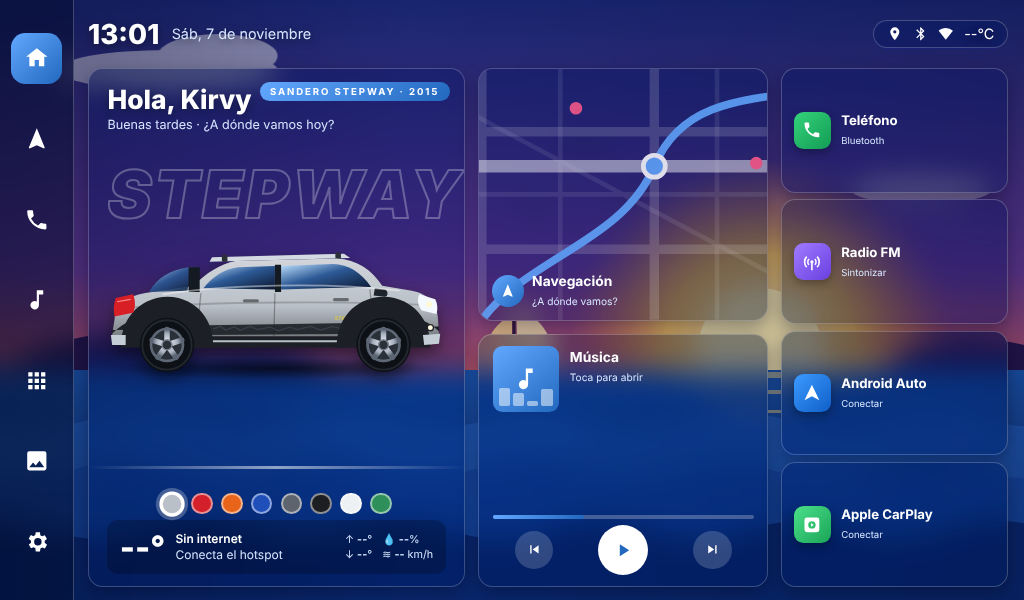
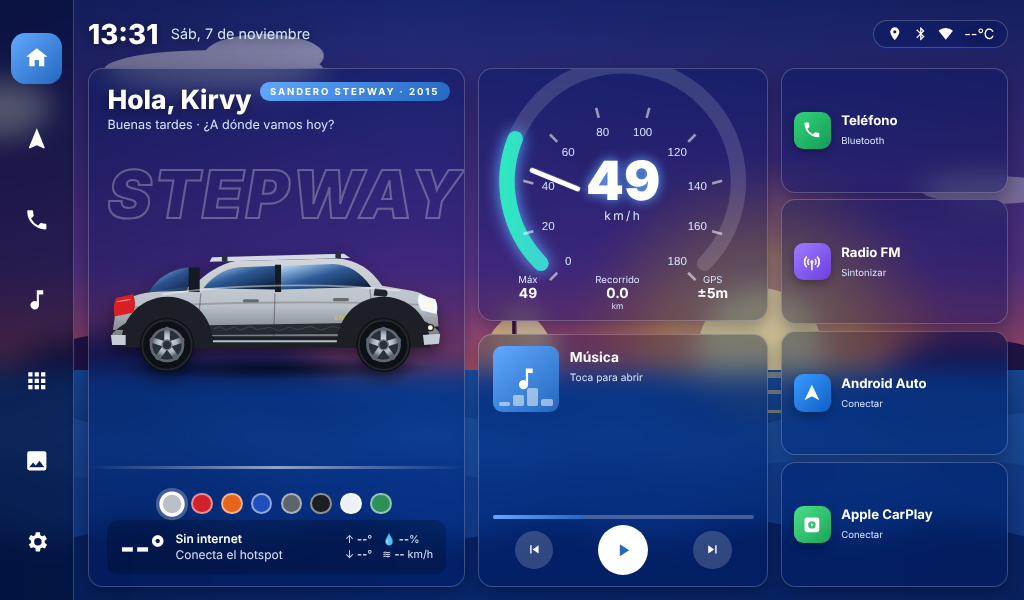
Velocímetro por GPS en lugar del mapa
Claude-Session: https://claude.ai/code/session_01N2MKAumXy8AifZPdSfDDV2

diff --git a/app/src/main/assets/launcher/index.html b/app/src/main/assets/launcher/index.html
@@ -103,6 +103,25 @@ html,body{width:100%;height:100%;overflow:hidden;background:#000;font-family:Rob
 .ctr svg{width:2.8vh;fill:#fff}
 .ctr .p svg{fill:var(--c3);width:3.4vh}
 
+
+/* ===== Velocímetro ===== */
+.speedo{display:flex;flex-direction:column;align-items:center;padding:1vh 1vw 1.4vh}
+.gauge{width:100%;height:0;flex:1 1 0;min-height:0;overflow:visible;margin-top:1vh}
+.gauge .track{fill:none;stroke:rgba(255,255,255,.14);stroke-width:12;stroke-linecap:round}
+.gauge .arc{fill:none;stroke-width:12;stroke-linecap:round;stroke-dasharray:0 100;transition:stroke-dasharray .5s ease-out;filter:drop-shadow(0 0 6px var(--c1))}
+.gauge text{fill:#d6e6ff;font-size:9px;font-family:Roboto,Arial,sans-serif;text-anchor:middle;dominant-baseline:middle}
+.gauge .tick{stroke:rgba(255,255,255,.55);stroke-width:2}
+.needle{transform-origin:100px 100px;transition:transform .5s ease-out}
+.sp-read{position:absolute;top:34%;left:0;right:0;text-align:center;pointer-events:none}
+.sp-num{font-size:9vh;font-weight:900;line-height:1;text-shadow:0 0 2vh var(--c1)}
+.sp-unit{font-size:2vh;color:var(--sub);letter-spacing:.2em}
+.sp-foot{display:flex;justify-content:space-around;width:100%;font-size:1.6vh;color:var(--sub)}
+.sp-foot div{display:flex;flex-direction:column;align-items:center}
+.sp-foot i{font-style:normal}
+.sp-foot b{font-size:2.3vh;color:#fff}
+.sp-foot small{font-size:1.4vh}
+.speedo.fast .sp-num{color:#ff6b6b;text-shadow:0 0 2vh #ff3b3b}
+
 /* ===== Derecha ===== */
 .quick{display:grid;grid-template-rows:repeat(4,1fr);gap:1.1vh;min-height:0}
 .q{display:flex;align-items:center;gap:1vw;padding:0 1.1vw}
@@ -289,16 +308,24 @@ html,body{width:100%;height:100%;overflow:hidden;background:#000;font-family:Rob
       </article>
 
       <div class="mid">
-        <article class="card glass map" data-tile="nav">
-          <svg class="mapbg" viewBox="0 0 300 160" preserveAspectRatio="xMidYMid slice">
-            <g stroke="rgba(255,255,255,.18)" stroke-width="6" fill="none"><path d="M0 40h300M0 115h300M60 0v160M170 0v160M250 0v160"/></g>
-            <g stroke="rgba(255,255,255,.1)" stroke-width="3" fill="none"><path d="M0 80h300M110 0v160M210 0v160M0 0l300 160"/></g>
-            <path d="M0 62h300" stroke="rgba(255,255,255,.55)" stroke-width="8"/>
-            <path d="M60 160 C90 120 150 110 170 62 S240 20 300 10" stroke="var(--c1)" stroke-width="5" fill="none"/>
-            <circle cx="170" cy="62" r="7" fill="var(--c1)" stroke="#fff" stroke-width="3"/>
-            <g fill="#ff5c8a"><circle cx="40" cy="58" r="4"/><circle cx="235" cy="60" r="4"/><circle cx="120" cy="25" r="4"/></g>
+        <article class="card glass speedo" id="speedo">
+          <svg class="gauge" viewBox="-4 2 208 150">
+            <defs>
+              <linearGradient id="gArc" x1="0" y1="0" x2="1" y2="0">
+                <stop offset="0" stop-color="#2ee6c0"/><stop offset=".55" stop-color="var(--c1)"/><stop offset="1" stop-color="#ff3b3b"/>
+              </linearGradient>
+            </defs>
+            <path class="track" d="M36.4 143.6 A90 90 0 1 1 163.6 143.6" pathLength="100"/>
+            <path class="arc" id="gArcPath" d="M36.4 143.6 A90 90 0 1 1 163.6 143.6" pathLength="100" stroke="url(#gArc)"/>
+            <g id="ticks"></g>
+            <g id="needle" class="needle"><path d="M100 62 L100 24" stroke="#fff" stroke-width="4" stroke-linecap="round"/></g>
           </svg>
-          <div class="lbl"><div class="c"><svg viewBox="0 0 24 24"><path d="M12 2 4.5 20.3l.7.7L12 18l6.8 3 .7-.7z"/></svg></div><div><b>Navegación</b><span>¿A dónde vamos?</span></div></div>
+          <div class="sp-read"><div class="sp-num" id="spNum">0</div><div class="sp-unit">km/h</div></div>
+          <div class="sp-foot">
+            <div><i>Máx</i><b id="spMax">0</b></div>
+            <div><i>Recorrido</i><b id="spDist">0.0</b><small>km</small></div>
+            <div><i>GPS</i><b id="spGps">…</b></div>
+          </div>
         </article>
         <article class="card glass music">
           <div class="cover" data-tile="music"><div class="eq"><i></i><i></i><i></i><i></i></div><svg viewBox="0 0 24 24"><path d="M12 3v10.6A4 4 0 1 0 14 17V7h4V3z"/></svg></div>
@@ -443,6 +470,39 @@ async function clima(){
   }catch(e){$("wxDesc").textContent="Sin internet";$("wxFeel").textContent="Conecta el hotspot"}
 }
 clima();setInterval(clima,20*60*1000);
+
+
+// ===== Velocímetro (GPS) =====
+const VMAX=180;
+(function(){ // marcas cada 20 km/h
+  let g="";for(let v=0;v<=VMAX;v+=20){const a=(-135+270*v/VMAX)*Math.PI/180;
+    const x1=100+80*Math.sin(a),y1=100-80*Math.cos(a),x2=100+72*Math.sin(a),y2=100-72*Math.cos(a),tx=100+60*Math.sin(a),ty=100-60*Math.cos(a);
+    g+=`<line class="tick" x1="${x1.toFixed(1)}" y1="${y1.toFixed(1)}" x2="${x2.toFixed(1)}" y2="${y2.toFixed(1)}"/><text x="${tx.toFixed(1)}" y="${ty.toFixed(1)}">${v}</text>`}
+  $("ticks").innerHTML=g;
+})();
+let vMax=0,dist=parseFloat(store.get("trip")||"0")||0,lastT=0;
+function velocidad(kmh,precision){
+  kmh=Math.max(0,Math.min(VMAX,Math.round(kmh)));
+  $("spNum").textContent=kmh;
+  $("gArcPath").style.strokeDasharray=(kmh/VMAX*100)+" 100";
+  $("needle").style.transform=`rotate(${-135+270*kmh/VMAX}deg)`;
+  $("speedo").classList.toggle("fast",kmh>=110);
+  const now=Date.now();
+  if(lastT&&kmh>0){dist+=kmh*(now-lastT)/3600000;$("spDist").textContent=dist.toFixed(1);store.set("trip",dist.toFixed(3))}
+  lastT=now;
+  if(kmh>vMax){vMax=kmh;$("spMax").textContent=vMax}
+  $("spGps").textContent=precision?("±"+Math.round(precision)+"m"):"OK";
+}
+window.onSpeed=velocidad;
+window.onGps=t=>{$("spGps").textContent=t};
+$("spDist").textContent=dist.toFixed(1);
+// toque largo en el velocímetro = reiniciar recorrido
+(function(){let t;const el=$("speedo");
+  el.addEventListener("touchstart",()=>{t=setTimeout(()=>{dist=0;vMax=0;store.set("trip","0");$("spDist").textContent="0.0";$("spMax").textContent="0";toast("Recorrido reiniciado")},900)},{passive:true});
+  el.addEventListener("touchend",()=>clearTimeout(t));})();
+if(!A){ // vista previa: simula manejo
+  let v=0,d=1;setInterval(()=>{v+=d*7;if(v>95||v<0)d*=-1;velocidad(Math.max(0,v),5)},700);
+}
 
 // ===== Abrir apps =====
 function abrir(tile){

diff --git a/app/src/main/java/com/kirvy/stepwaylauncher/MainActivity.kt b/app/src/main/java/com/kirvy/stepwaylauncher/MainActivity.kt
@@ -45,8 +45,8 @@ class MainActivity : Activity() {
         setContentView(web)
         ocultarBarras()
 
-        if (checkSelfPermission(Manifest.permission.ACCESS_COARSE_LOCATION) != PackageManager.PERMISSION_GRANTED) {
-            requestPermissions(arrayOf(Manifest.permission.ACCESS_COARSE_LOCATION), 1)
+        if (checkSelfPermission(Manifest.permission.ACCESS_FINE_LOCATION) != PackageManager.PERMISSION_GRANTED) {
+            requestPermissions(arrayOf(Manifest.permission.ACCESS_FINE_LOCATION, Manifest.permission.ACCESS_COARSE_LOCATION), 1)
         }
     }
 
@@ -57,7 +57,51 @@ class MainActivity : Activity() {
                 or View.SYSTEM_UI_FLAG_IMMERSIVE_STICKY)
     }
 
-    override fun onResume() { super.onResume(); ocultarBarras() }
+    override fun onResume() { super.onResume(); ocultarBarras(); iniciarGps() }
+    override fun onPause() { super.onPause(); detenerGps() }
+
+    override fun onRequestPermissionsResult(requestCode: Int, permissions: Array<out String>, grantResults: IntArray) {
+        super.onRequestPermissionsResult(requestCode, permissions, grantResults)
+        iniciarGps()
+    }
+
+    // ===== Velocidad por GPS =====
+    private var ultima: android.location.Location? = null
+    private val escuchaGps = object : android.location.LocationListener {
+        override fun onLocationChanged(l: android.location.Location) {
+            var ms = if (l.hasSpeed()) l.speed.toDouble() else 0.0
+            val prev = ultima
+            if (!l.hasSpeed() && prev != null) {
+                val dt = (l.time - prev.time) / 1000.0
+                if (dt > 0) ms = l.distanceTo(prev) / dt
+            }
+            ultima = l
+            val kmh = ms * 3.6
+            val acc = if (l.hasAccuracy()) l.accuracy.toDouble() else 0.0
+            web.evaluateJavascript("window.onSpeed && window.onSpeed($kmh,$acc)", null)
+        }
+        @Deprecated("Deprecated in Java")
+        override fun onStatusChanged(p: String?, s: Int, e: Bundle?) {}
+        override fun onProviderEnabled(p: String) {}
+        override fun onProviderDisabled(p: String) {
+            web.evaluateJavascript("window.onGps && window.onGps('Apagado')", null)
+        }
+    }
+
+    @SuppressLint("MissingPermission")
+    private fun iniciarGps() {
+        if (checkSelfPermission(Manifest.permission.ACCESS_FINE_LOCATION) != PackageManager.PERMISSION_GRANTED) return
+        val lm = getSystemService(Context.LOCATION_SERVICE) as LocationManager
+        try {
+            if (lm.isProviderEnabled(LocationManager.GPS_PROVIDER))
+                lm.requestLocationUpdates(LocationManager.GPS_PROVIDER, 500L, 0f, escuchaGps)
+            else web.evaluateJavascript("window.onGps && window.onGps('Apagado')", null)
+        } catch (_: Exception) {}
+    }
+
+    private fun detenerGps() {
+        try { (getSystemService(Context.LOCATION_SERVICE) as LocationManager).removeUpdates(escuchaGps) } catch (_: Exception) {}
+    }
 
     // Un launcher no se cierra con "atrás": solo cierra el cajón de apps.
     @Deprecated("Deprecated in Java")
@@ -137,7 +181,8 @@ class MainActivity : Activity() {
         @SuppressLint("MissingPermission")
         @JavascriptInterface
         fun getLocation(): String {
-            if (ctx.checkSelfPermission(Manifest.permission.ACCESS_COARSE_LOCATION) != PackageManager.PERMISSION_GRANTED) return "{}"
+            if (ctx.checkSelfPermission(Manifest.permission.ACCESS_COARSE_LOCATION) != PackageManager.PERMISSION_GRANTED &&
+                ctx.checkSelfPermission(Manifest.permission.ACCESS_FINE_LOCATION) != PackageManager.PERMISSION_GRANTED) return "{}"
             val lm = ctx.getSystemService(Context.LOCATION_SERVICE) as LocationManager
             for (p in lm.getProviders(true)) {
                 val l = try { lm.getLastKnownLocation(p) } catch (_: Exception) { null } ?: continue

diff --git a/LEEME.md b/LEEME.md
@@ -1,7 +1,7 @@
 # Stepway Launcher
 
 Pantalla de inicio para el radio Android (1024x600) de la Renault Stepway 2015:
-saludo con nombre, Stepway naranja, reloj, clima en vivo, navegación, música,
+saludo con nombre, Stepway, reloj, clima en vivo, velocímetro por GPS, música,
 teléfono, radio FM, Android Auto y Apple CarPlay.
 
 ![vista previa](vista_previa.png)
@@ -42,6 +42,13 @@ Alternativa: abre la carpeta en Android Studio y usa Build > Build APK.
   en PNG sin fondo; puedes quitarle el fondo gratis en remove.bg).
   "Volver al dibujo" regresa la Stepway dibujada.
 - Botón de cuadritos: todas las apps. Engrane: ajustes de Android.
+
+## Velocímetro
+- Usa el GPS del radio: muestra la velocidad en km/h, la máxima y los km recorridos.
+- Deja presionado el velocímetro 1 segundo para reiniciar el recorrido.
+- Acepta el permiso de "ubicación precisa" la primera vez.
+- La velocidad del GPS puede variar ±2-3 km/h respecto al tablero; es normal.
+- Navegación (Waze/Maps) sigue en la flecha de la barra izquierda.
 
 ## Personalizar
 - Colores disponibles: lista `COLORES` en `app/src/main/assets/launcher/index.html`.
